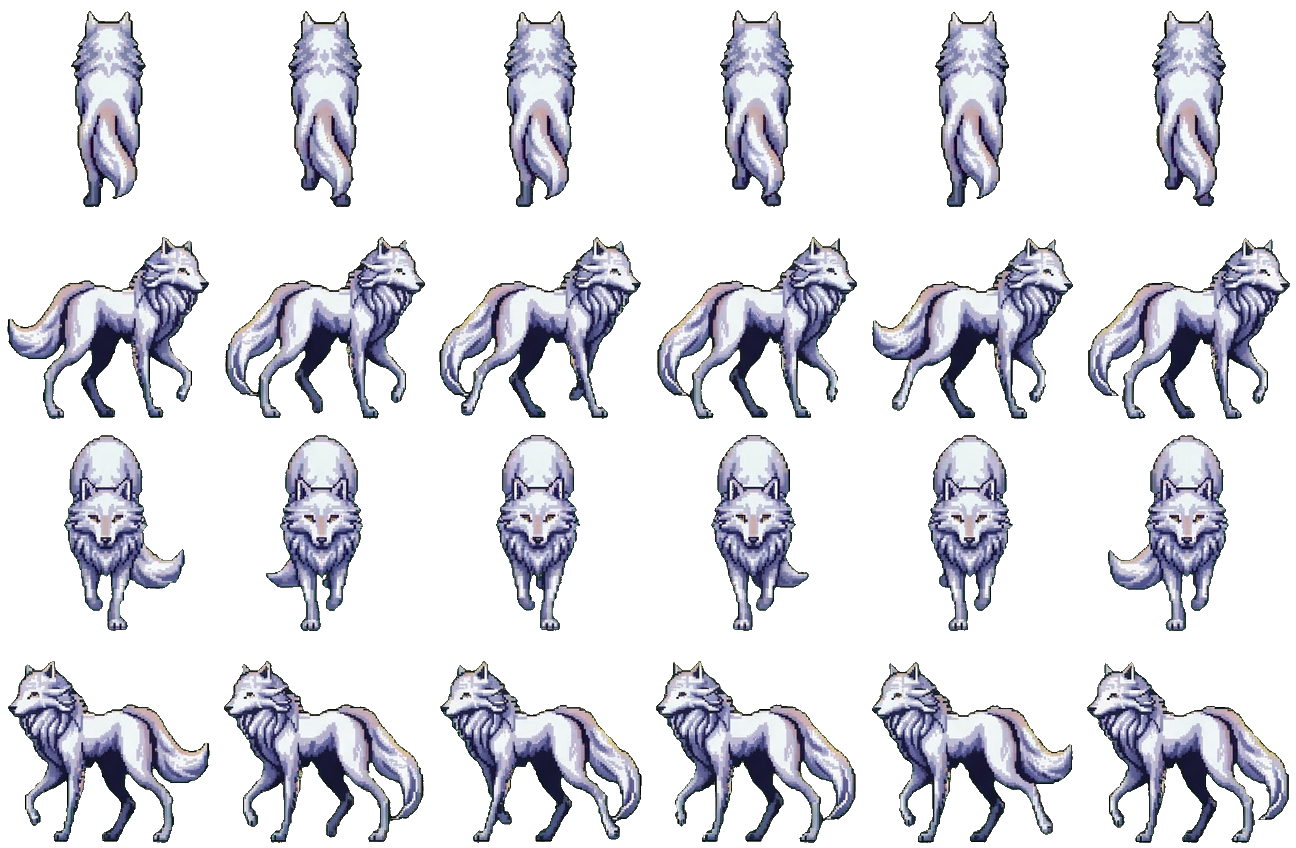
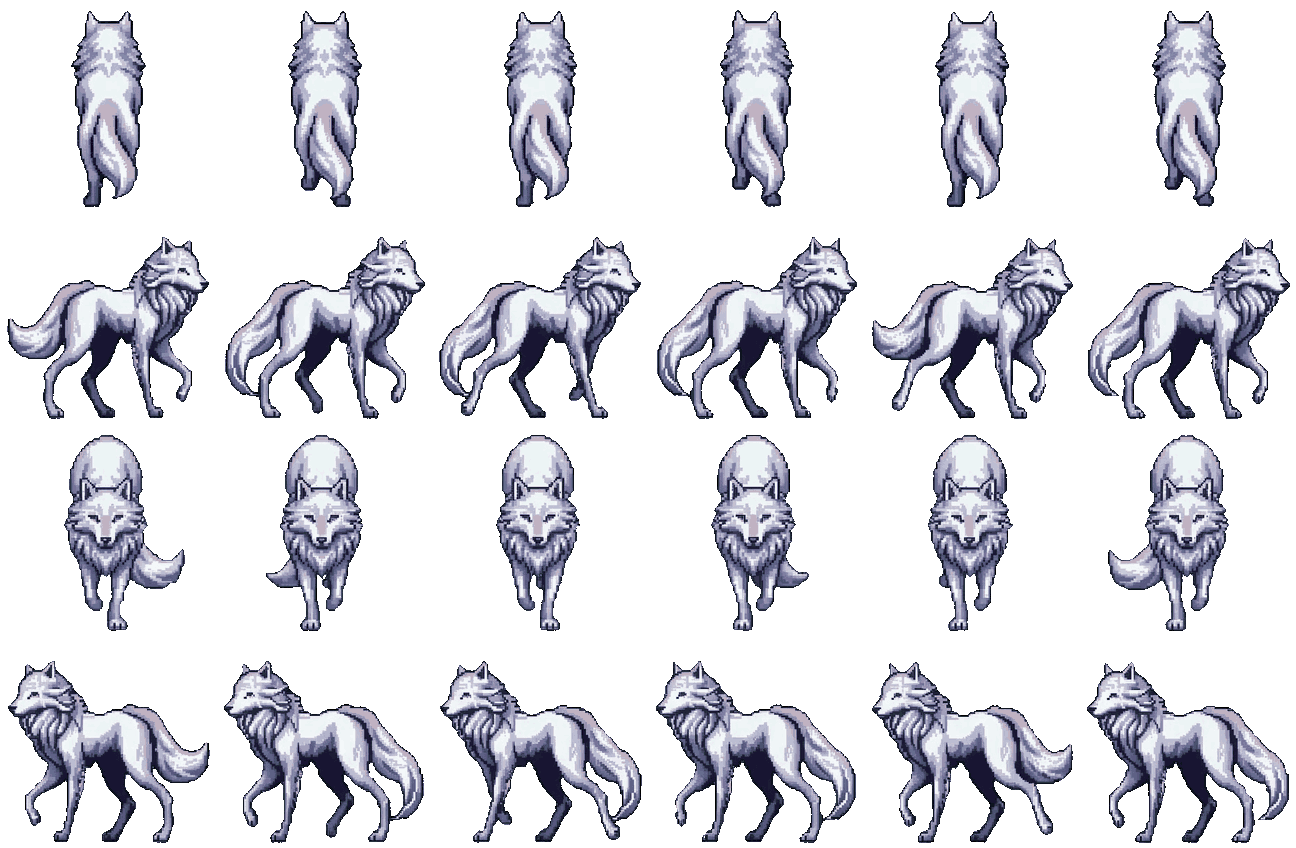
Lobo: paleta refinada (32 cores, bordas nítidas) e movimento suavizado
Claude-Session: https://claude.ai/code/session_01NQGjuTdMAdamukhT9WXCHy

diff --git a/aide_split/index.html b/aide_split/index.html
@@ -2878,12 +2878,12 @@ function addWolfItems(queue,camX,camY,clock,viewRadius,solar){
   w.v+=Math.max(-rate*dt,Math.min(rate*dt,cruise-w.v));
   const travelBefore=w.travel||0;let moved=false;if(w.v>.4&&dt>0){moved=wolfStep(w,w.v,dt);if(!moved&&w.state==='walk'){w.v=Math.min(w.v,8);if(wolfPickTarget(w)){w.startAt=clock+.2}else{w.state='rest';w.next=clock+2}}}
   const it=w._item,moving=moved&&(w.travel||0)>travelBefore&&w.v>2.5,stride=10;
-  it.x=w.x;it.y=w.y;it.row=WOLF_ROWMAP[w.dir];it.alpha=1;
+  it.x=w.x;it.y=w.y;if(w.shownDir==null){w.shownDir=w.dir;w.dirT=w.dir;w.dirAt=clock}else if(w.dirT!==w.dir){w.dirT=w.dir;w.dirAt=clock}else if(clock-w.dirAt>=.12)w.shownDir=w.dir;it.row=WOLF_ROWMAP[w.shownDir];it.alpha=1;
   if(moving){w.travel=(w.travel||0);it.frame=WOLF_GAIT[Math.floor(w.travel/stride)%6];
    // sobe e desce a cada passada: no contato o corpo está mais baixo, no meio do passo sobe
    const sp=Math.min(1,w.v/50),amp=(.4+.5*sp)*WOLF_SCALE,ph=Math.PI*w.travel/stride,p=Math.abs(Math.sin(ph));it.bob=-amp*p;it.sway=Math.sin(ph)*.45*sp*WOLF_SCALE;it.squash=1-.035*p*sp}
   else{it.frame=1;it.bob=-.6*(1+Math.sin(clock*2.1+w.phase))*.5;it.sway=0;it.squash=1}
-  const sc=WOLF_SCALE;it.clock=clock;it.pulse=(.8+.2*Math.sin(clock*1.7+w.phase))*night;
+  if(w.bobS==null){w.bobS=it.bob;w.swS=it.sway;w.sqS=it.squash}const kk=Math.min(1,dt*12);w.bobS+=(it.bob-w.bobS)*kk;w.swS+=(it.sway-w.swS)*kk;w.sqS+=(it.squash-w.sqS)*kk;it.bob=w.bobS;it.sway=w.swS;it.squash=w.sqS;const sc=WOLF_SCALE;it.clock=clock;it.pulse=(.8+.2*Math.sin(clock*1.7+w.phase))*night;
   const eyeL=WOLF_EYES[it.row*6+it.frame]||[];it.eyes=eyeL.map(([ex,ey])=>[w.x+(ex-WOLF_AX)*sc,w.y+(ey-WOLF_AY)*sc+(it.bob||0)]);
   if(!w.trail)w.trail=[];if(moving&&it.eyes.length)w.trail.push({t:clock,pts:it.eyes});
   while(w.trail.length&&clock-w.trail[0].t>.34)w.trail.shift();if(w.trail.length>12)w.trail.shift();
